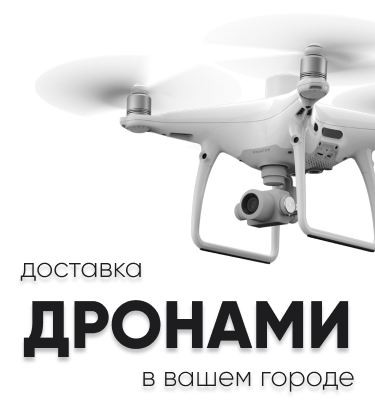
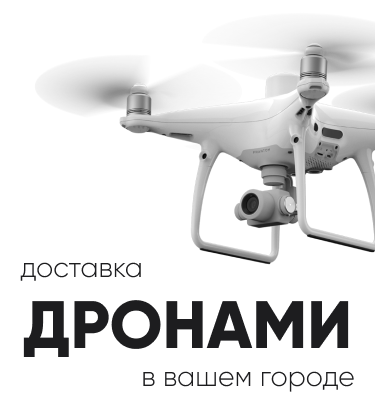
circles and shadow

diff --git a/#source/style.scss b/#source/style.scss
@@ -640,7 +640,7 @@ $black: #1D1D1F;
 
             @media (max-width: 479.98px) {
                 font-size: 22px;
-                background: url(../img/ol--circle--small.svg) no-repeat 50% 50%;
+                background: url(../img/ol--circle-small.svg) no-repeat 50% 50%;
                 width: 40px;
                 height: 40px;
                 line-height: 40px;

diff --git a/css/style.css b/css/style.css
@@ -643,7 +643,7 @@
 @media (max-width: 479.98px) {
   .how-it-works__item::before {
     font-size: 22px;
-    background: url(../img/ol--circle--small.svg) no-repeat 50% 50%;
+    background: url(../img/ol--circle-small.svg) no-repeat 50% 50%;
     width: 40px;
     height: 40px;
     line-height: 40px;
